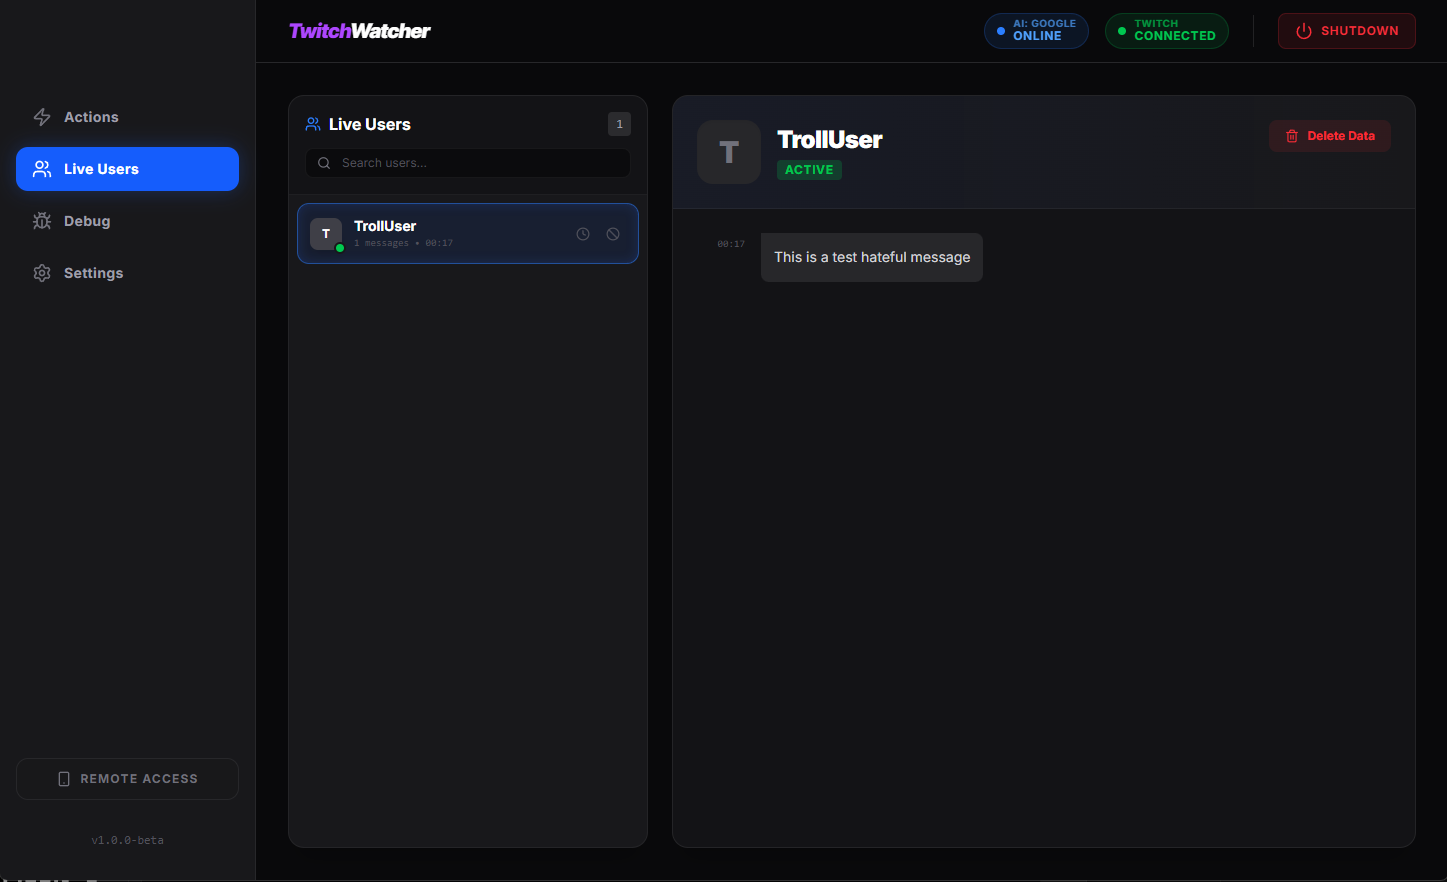
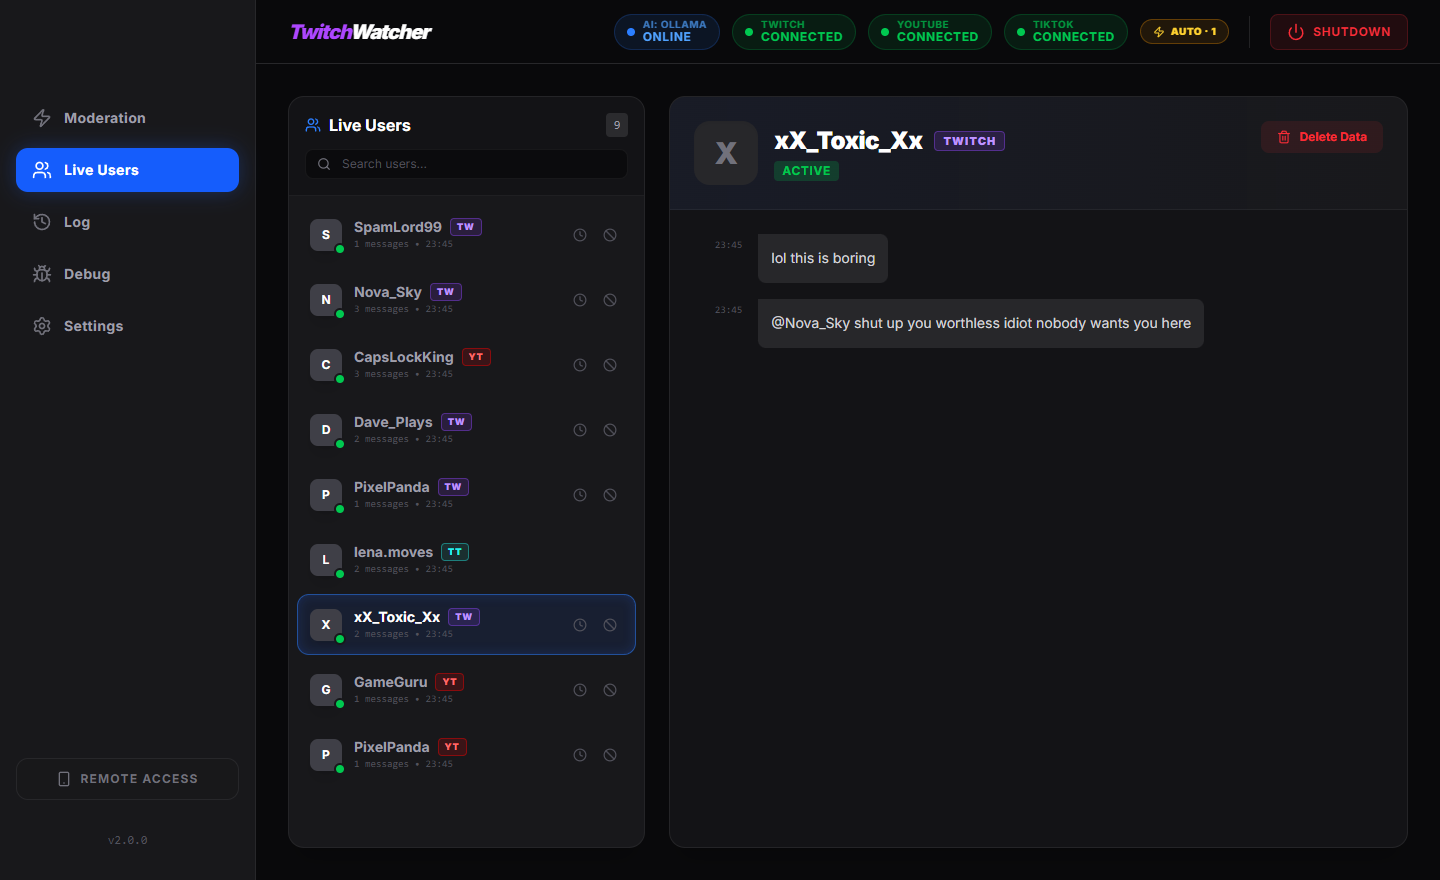
Default to Suppress links and a sample repeat rule; fix content under the top bar; new screenshots
- New installs: links = suppress, one enabled "Repeated message" rule
  (3x in 60 s -> delete + timeout, still confirmed). Existing settings
  files keep their values; v3 files gain the rule because they have no
  rules key yet.
- Desktop layout: md:p-8 was overriding the main's top padding, so the
  panels started under the fixed header.
- README: Moderation / Live Users / wizard screenshots redone, Log tab
  and rules editor added; text updated for the new defaults.

diff --git a/server/src/test/settingsMigrate.test.ts b/server/src/test/settingsMigrate.test.ts
@@ -1,5 +1,5 @@
 import { describe, expect, it } from 'vitest';
-import { DEFAULT_SETTINGS, SETTINGS_SCHEMA_VERSION, migrate, withDefaults } from '../store/settings';
+import { DEFAULT_REPEAT_RULE, DEFAULT_SETTINGS, SETTINGS_SCHEMA_VERSION, migrate, withDefaults } from '../store/settings';
 
 describe('migrate', () => {
     it('moves the v1 twitch block under platforms and stamps the schema version', () => {
@@ -53,7 +53,9 @@ describe('withDefaults', () => {
         });
 
         expect(merged.moderation.sensitivity).toBe('strict');
-        expect(merged.moderation.links).toBe('allow');
+        expect(merged.moderation.links).toBe('suppress');
+        expect(merged.moderation.rules).toEqual([DEFAULT_REPEAT_RULE]); // a v3 file has no rules key
+        expect(withDefaults(DEFAULT_SETTINGS, { moderation: { rules: [] } }).moderation.rules).toEqual([]);
         expect(merged.moderation.linkAllowlist).toEqual(['twitch.tv']);
         expect(merged.moderation.categories.hate).toBe(true);
         expect(merged.platforms.twitch.channel).toBe('');

diff --git a/server/src/store/settings.ts b/server/src/store/settings.ts
@@ -86,6 +86,20 @@ export interface AppSettings {
     };
 }
 
+/** Shipped enabled so streamers see what a rule looks like; the card still needs their approval (auto is off). */
+export const DEFAULT_REPEAT_RULE: Rule = {
+    id: 'default-repeat',
+    name: 'Repeated message',
+    enabled: true,
+    type: 'repeat',
+    count: 3,
+    windowSeconds: 60,
+    category: 'spam',
+    action: 'timeout',
+    deleteMessage: true,
+    auto: false,
+};
+
 export const DEFAULT_SETTINGS: AppSettings = {
     schemaVersion: SETTINGS_SCHEMA_VERSION,
     isSetupComplete: false,
@@ -97,10 +111,10 @@ export const DEFAULT_SETTINGS: AppSettings = {
         sensitivity: 'balanced',
         categories: { hate: true, harassment: true, threat: true, spam: true, vulgarity: true, other: true },
         skipTrustedRoles: true,
-        links: 'allow',
+        links: 'suppress',
         linkAllowlist: [],
         linksAuto: false,
-        rules: [],
+        rules: [DEFAULT_REPEAT_RULE],
         autoEnabled: false,
         autoGraceSeconds: 10,
     },

diff --git a/server/src/test/backup.test.ts b/server/src/test/backup.test.ts
@@ -1,6 +1,6 @@
 import { describe, expect, it } from 'vitest';
 import { exportSettings, importSettings } from '../services/backup';
-import { DEFAULT_SETTINGS, SETTINGS_SCHEMA_VERSION, withDefaults, type AppSettings } from '../store/settings';
+import { DEFAULT_REPEAT_RULE, DEFAULT_SETTINGS, SETTINGS_SCHEMA_VERSION, withDefaults, type AppSettings } from '../store/settings';
 
 const settings: AppSettings = withDefaults(DEFAULT_SETTINGS, {
     isSetupComplete: true,
@@ -43,6 +43,6 @@ describe('backup', () => {
         const restored = importSettings(exportSettings(old, 'correct horse'), 'correct horse');
         expect(restored.schemaVersion).toBe(SETTINGS_SCHEMA_VERSION);
         expect(restored.platforms.twitch).toMatchObject({ enabled: true, username: 'bot' });
-        expect(restored.moderation.rules).toEqual([]);
+        expect(restored.moderation.rules).toEqual([DEFAULT_REPEAT_RULE]);
     });
 });

diff --git a/client/src/App.tsx b/client/src/App.tsx
@@ -229,7 +229,7 @@ function App() {
       <div className="flex-1 flex flex-col md:ml-64 relative">
         <Topbar onShutdown={handleShutdown} status={systemStatus} update={update} onDismissUpdate={dismissUpdate} />
 
-        <main className={`flex-1 p-4 md:p-8 pb-24 md:pb-8 overflow-y-auto custom-scrollbar relative z-0 ${mainPadding}`}>
+        <main className={`flex-1 px-4 md:px-8 pb-24 md:pb-8 overflow-y-auto custom-scrollbar relative z-0 ${mainPadding}`}>
           <AnimatePresence mode="wait">
             {activeTab === 'moderation' && (
               <motion.div

diff --git a/client/src/components/Settings.tsx b/client/src/components/Settings.tsx
@@ -54,7 +54,7 @@ export function Settings({ status = EMPTY_STATUS, info = null, onSaved }: Props)
             sensitivity: 'balanced',
             categories: { hate: true, harassment: true, threat: true, spam: true, vulgarity: true, other: true },
             skipTrustedRoles: true,
-            links: 'allow',
+            links: 'suppress',
             linkAllowlist: [],
             linksAuto: false,
             rules: [],

diff --git a/README.md b/README.md
@@ -13,16 +13,19 @@
 **TwitchWatcher** is a local, AI-powered auto-moderation dashboard for live streamers on **Twitch, YouTube and TikTok**. It serves as an intelligent "second pair of eyes," watching all your chats in one merged feed and detecting toxicity, hate speech, threats and spam in real time.
 
 ![Main Dashboard](resources/mainPage.png)
+*The Moderation tab: merged chat from three platforms on the left; on the right a card from a rule (repeated message), a link card counting down in auto mode with its **Hold** button, and an AI card below.*
 
-Unlike traditional bots that ban instantly, TwitchWatcher **queues suspicious messages** for human review. This "Human-in-the-Loop" approach prevents AI hallucinations from causing unfair bans while keeping your community safe.
+Unlike traditional bots that ban instantly, TwitchWatcher **queues suspicious messages** for human review. This "Human-in-the-Loop" approach prevents AI hallucinations from causing unfair bans while keeping your community safe. Only the rules **you** write (and the link policy) can be allowed to act on their own, after a countdown you can stop — and everything they do is logged and undoable.
 
 ## Key Features
 *   **Multi-platform**: Twitch, YouTube and TikTok chats merged into one live feed, each message tagged with its platform. Enable any combination.
 *   **AI Moderation**: Supports **Ollama** (Local, Free) and **Google Gemini** (Cloud, Fast).
 *   **Split-view Moderation tab**: live chat on the left, the AI's pending actions on the right. Flagged messages are highlighted inline; hover any message for a quick timeout/ban.
 *   **Tunable, not trigger-happy**: sensitivity levels, category toggles, per-user *notes* for borderline messages, and a flood breaker that reacts when the AI starts flagging everything.
-*   **Your own rules, before the AI**: banned words, regular expressions, caps lock and repeated messages become cards instantly — and can optionally be executed automatically after a countdown you can stop.
-*   **Every sanction is logged** in the Log tab, with an **Undo** button.
+*   **Your own rules, before the AI**: banned words, regular expressions, caps lock and repeated messages become cards instantly, without waiting for the model. A *Repeated message* rule ships enabled as an example.
+*   **Link policy**: links outside your allowlist are caught instantly; by default approving the card deletes the message and times out the user.
+*   **Opt-in auto mode**: a rule or the link policy can execute its sanction after a countdown you can **Hold** or **Dismiss**. AI verdicts never run on their own.
+*   **Every sanction is logged** in the Log tab — who, why, by the streamer or by a rule — with an **Undo** button.
 *   **Backups**: export all your settings (keys included) to a password-protected file and restore them on another PC.
 *   **Network Access**: Control the dashboard from your phone or tablet via local network (QR Code included).
 *   **Privacy First**: All chat logs and user data are stored locally on your machine.
@@ -118,6 +121,7 @@ We take security seriously. Here is how your data is handled:
 
 ### Log
 Every timeout, ban, unban and message deletion — whether you clicked it, a rule executed it automatically, or the AI suggested it — with the reason and the offending messages. **Undo** lifts a ban or timeout (on Twitch/YouTube; for YouTube only bans made from the app can be lifted).
+![Sanction Log](resources/sanctionLog.png)
 
 ### Live Users
 Everyone who has chatted, across platforms. Click a user to see their history and any **AI notes** — borderline flags that stayed below your sensitivity threshold.
@@ -126,8 +130,9 @@ Everyone who has chatted, across platforms. Click a user to see their history an
 ### Settings → Moderation
 *   **Sensitivity**: *Lenient* / *Balanced* / *Strict* sets the severity a flag needs to become a card. Anything below becomes a note on the user instead. Explicit slurs and threats always reach the queue.
 *   **Categories**: opt out of e.g. vulgarity or spam. Hate speech and threats are always on.
-*   **Links**: *Allow* (default), *Suppress* (delete the message + time out the user) or *Ban* (delete the message + ban the user). Any link outside your allowlist (`youtube.com`, `clips.twitch.tv`, …) becomes a card instantly, without the AI — **nothing is deleted or sanctioned until you approve the card**. Disguised links like `bit(dot)ly` are left to the AI, which is told to treat them as spam.
-*   **Rules**: your own deterministic filters, checked before the AI: banned *words / phrases* (whole words, accents ignored), a *regular expression*, *caps lock* (long, mostly upper-case messages) or a *repeated message*. Each rule has a category, a sanction (timeout or ban) and whether the message is deleted. A rule hit becomes a card immediately, without any AI call.
+*   **Links**: *Suppress* (default: delete the message + time out the user), *Ban* (delete the message + ban the user) or *Allow*. Any link outside your allowlist (`youtube.com`, `clips.twitch.tv`, …) becomes a card instantly, without the AI — **nothing is deleted or sanctioned until you approve the card** (unless you enable auto mode for links). Disguised links like `bit(dot)ly` are left to the AI, which is told to treat them as spam.
+*   **Rules**: your own deterministic filters, checked before the AI: banned *words / phrases* (whole words, accents ignored), a *regular expression*, *caps lock* (long, mostly upper-case messages) or a *repeated message*. Each rule has a category, a sanction (timeout or ban) and whether the message is deleted. A rule hit becomes a card immediately, without any AI call. A *Repeated message* rule (same message 3× within a minute → delete + timeout) is there by default; edit or delete it as you like.
+![Rules](resources/rules.png)
 *   **Auto mode** (off by default): a rule — or the link policy — can execute its sanction by itself after a grace period (10 s by default). The card shows a countdown; **Hold** keeps it for you to decide, **Dismiss** cancels it. AI verdicts are never executed automatically.
 
 > [!WARNING]

diff --git a/project_overview.md b/project_overview.md
@@ -10,7 +10,7 @@ TwitchWatcher is a local, AI-powered auto-moderation dashboard for live streamer
 - **Flexible AI Providers**: Supports both local inference via **Ollama** (privacy-focused, free) and cloud inference via **Google Gemini** (higher performance).
 - **Structured Verdicts**: The prompt (`promptBuilder`) asks for a category and a 1-5 severity, taking the user's recent messages into account.
 - **Over-flagging Mitigation**: A sensitivity threshold and category toggles decide what becomes a card; borderline flags become *notes* on the user, repeated near-misses escalate, slurs/threats always reach the queue, and a flood breaker raises the threshold when the model starts flagging everything.
-- **Link Policy**: Plain URLs are caught deterministically (allow / suppress = delete + timeout / ban = delete + ban, with an allowlist) without an AI call and always confirmed by the streamer; the AI is only asked about deliberately disguised links.
+- **Link Policy**: Plain URLs are caught deterministically (suppress = delete + timeout by default, ban = delete + ban, or allow, with an allowlist) without an AI call and always confirmed by the streamer; the AI is only asked about deliberately disguised links.
 - **Deterministic Rules**: The streamer's own filters (banned words, regex, caps lock, repeated messages) run before the AI and produce cards with a chosen category, sanction and delete flag.
 - **Opt-in Auto Mode**: A rule or the link policy can execute its sanction after a grace period shown as a countdown on the card (Hold / Dismiss cancel it). AI verdicts are never executed automatically.
 - **Prompt Bench**: A labelled English + French dataset and `npm run bench:ai` measure precision / recall of a model + prompt before changing either.

diff --git a/CHANGELOG.md b/CHANGELOG.md
@@ -20,7 +20,12 @@ All notable changes to this project are documented here. The format follows
 - Server tests for the moderation pipeline (routing, flood breaker, analysis queue, rules, auto executor, sanction log, retention, backup).
 
 ### Changed
+- New installs default to the *Suppress* link policy and ship with an enabled *Repeated message* rule (3× within 60 s → delete + timeout, confirmed by the streamer). Existing settings are not changed.
 - The moderation prompt lists French casual uses of "tue"/"mort", untargeted swearing and "selling followers" among its examples.
+- README screenshots redone for the Moderation tab, Live Users, the setup wizard, plus new ones for the Log tab and the rules editor.
+
+### Fixed
+- On desktop the tab content started under the top bar (the panel headers were hidden behind it).
 - `POST /api/actions/:id/resolve` and the manual moderation route share one sanction path, so message deletion, user status and the journal stay consistent.
 
 ## [2.0.0] - 2026-09-18
